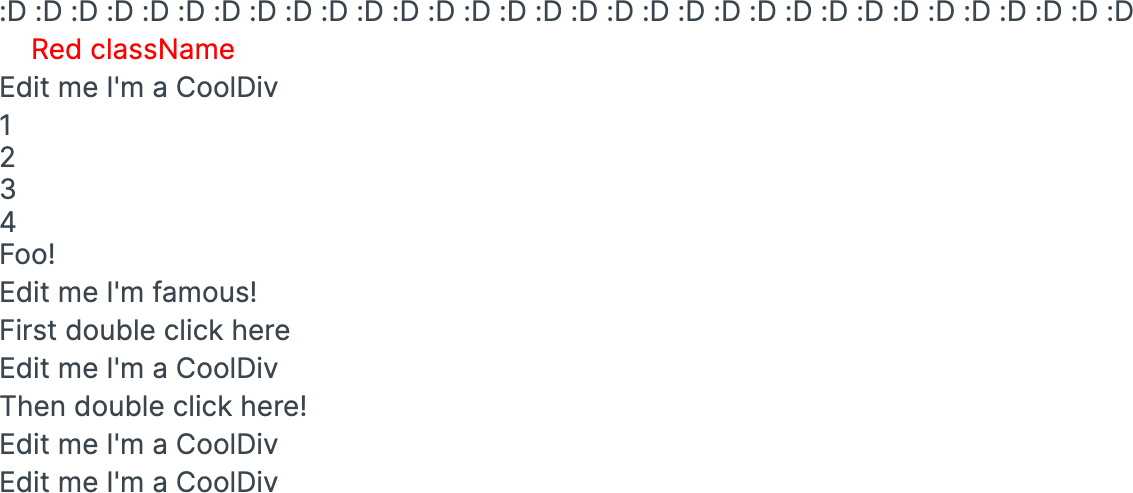
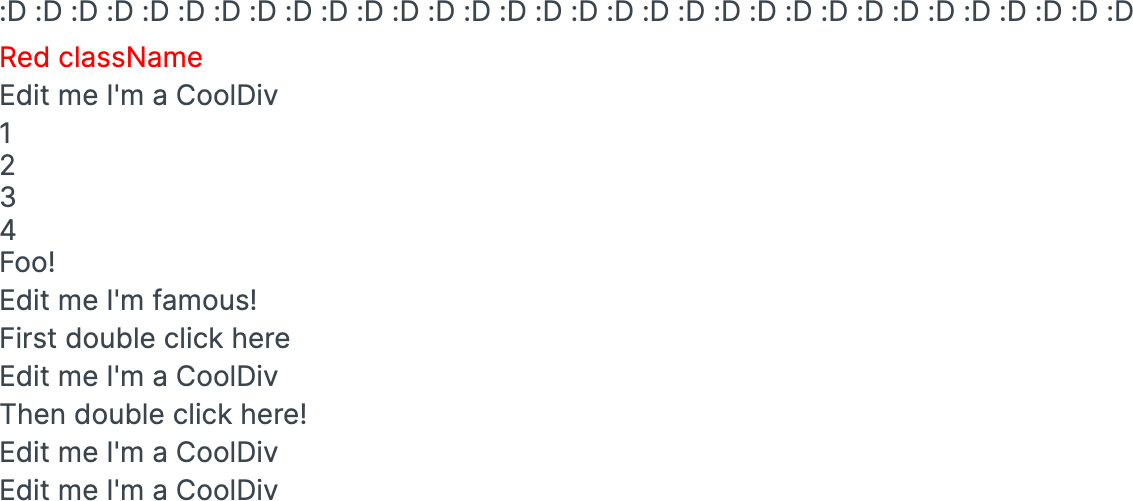
[ecu] Add className 'padding-y' to Text in App

diff --git a/app/src/App.tsx b/app/src/App.tsx
@@ -48,7 +48,7 @@ function App(props: AppPropsType) {
         </Text>
       </Div>
       <Text
-        className="margin-top red"
+        className="padding-y"
         data-ecu="B66AQZfdKS:1">
         Red className
       </Text>
